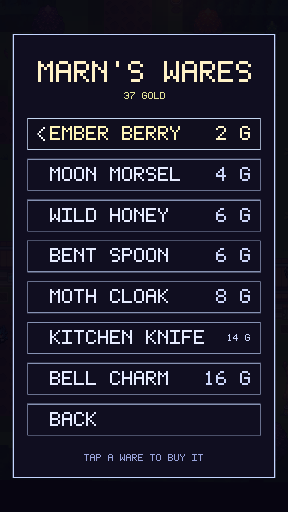
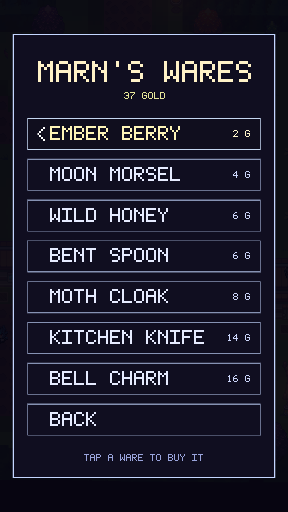
polish pass 3: one type size per value column
- LayRows computes a single val scale for the whole list up front:
  a price/count column reads as a column and mixed sizes looked like
  a misprint (shop showed '8 G' big next to '14 G' small, the bestiary
  shrank only MOSS SLIME's row)
- labels still step down per row when the pair overflows, so the
  value column stays uniform

diff --git a/MoonThief/Assets/Scripts/Frontend.cs b/MoonThief/Assets/Scripts/Frontend.cs
@@ -1386,6 +1386,20 @@ namespace MoonThief
             // One pitch for the whole list: evenly spaced rows read as a table, and the returned
             // bottom edge is what the card and its footnote are placed from.
             float pitch = RowH + RowGap;
+
+            // The value column gets one type size for the whole list before any row is laid out:
+            // a price/count column reads as a column, and two rows in a different size look like
+            // a misprint (the shop used to show "8 G" big and "14 G" small side by side).
+            const float colGap = 0.7f;
+            float colLabelX = -RowW * 0.5f + TextInset;
+            float colRoom = RowW * 0.5f - ValInset - colLabelX;
+            int valCol = 2;
+            for (int i = 0; i < count && i < vals.Length; i++)
+            {
+                if (string.IsNullOrEmpty(vals[i])) continue;
+                if (PixelFont.Measure(labels[i], 2).x + colGap + PixelFont.Measure(vals[i], 2).x > colRoom) { valCol = 1; break; }
+            }
+
             for (int i = 0; i < rows.Count; i++)
             {
                 var r = rows[i];
@@ -1403,20 +1417,18 @@ namespace MoonThief
 
                 // Two columns, laid out as columns: the chevron owns its own lane inside the row's
                 // padding, the label starts clear of it and the value is right aligned against the
-                // inner edge. The pair steps down in one order only -- value first, then label --
-                // so one list never mixes two type sizes on the same kind of row.
+                // inner edge. Values use the list-wide column size computed above; the label alone
+                // steps down when the pair still overflows, so the column stays one size.
                 const float gap = 0.7f;
                 float labelX = -RowW * 0.5f + TextInset;
                 float valX = RowW * 0.5f - ValInset;
                 float room = valX - labelX;
                 bool hasVal = !string.IsNullOrEmpty(val);
 
-                int labelScale = 2, valScale = 2;
+                int labelScale = 2, valScale = hasVal ? valCol : 2;
                 if (hasVal)
                 {
-                    float pair = PixelFont.Measure(label, 2).x + gap + PixelFont.Measure(val, 2).x;
-                    if (pair > room) { valScale = 1; pair = PixelFont.Measure(label, 2).x + gap + PixelFont.Measure(val, 1).x; }
-                    if (pair > room) labelScale = 1;
+                    if (PixelFont.Measure(label, 2).x + gap + PixelFont.Measure(val, valScale).x > room) labelScale = 1;
                 }
                 else if (PixelFont.Measure(label, 2).x > room) labelScale = 1;
 
